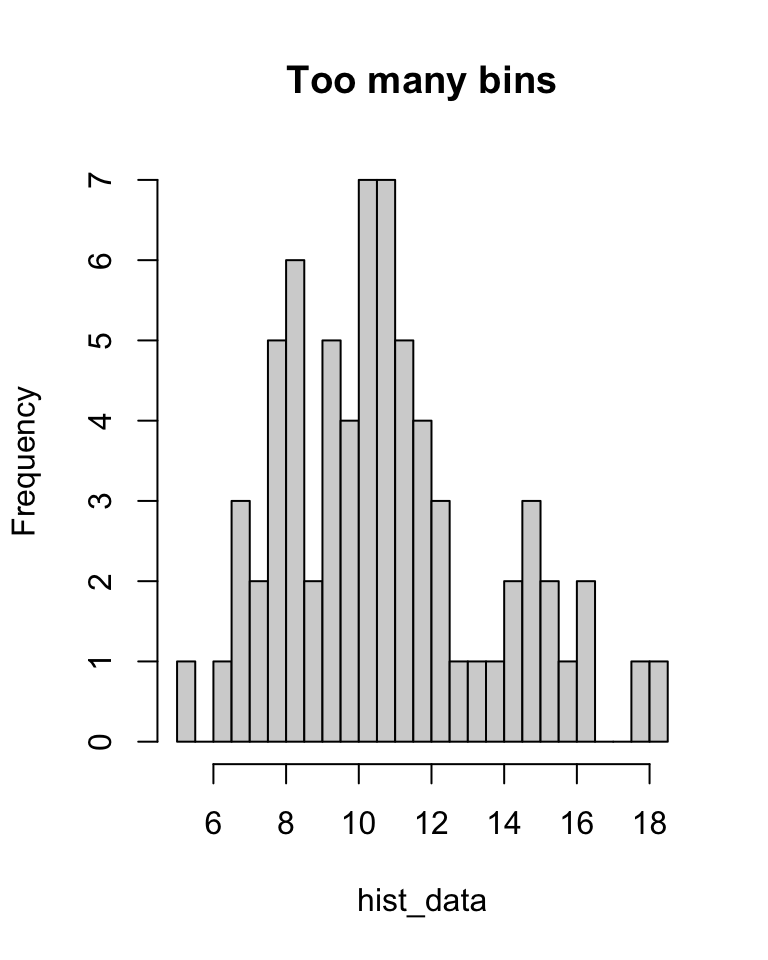
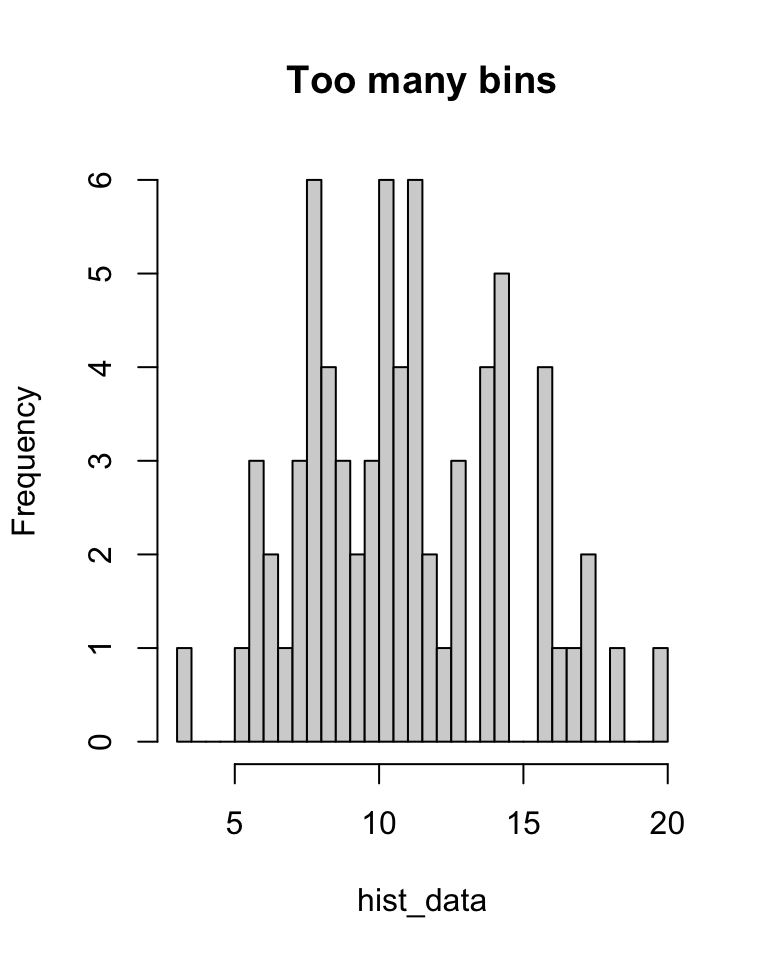
dataviz changes

diff --git a/docs/L02-dataviz.html b/docs/L02-dataviz.html
@@ -225,7 +225,8 @@ code span.wa { color: #60a0b0; font-weight: bold; font-style: italic; } /* Warni
 <p>When we have multiple datasets, drawing boxplots next to each other can help us to compare the datasets. Here are two boxplots from the July and October temperature data we used in the last lecture. What do you conclude about the data from these boxplots?</p>
 <div class="sourceCode" id="cb11"><pre class="sourceCode r"><code class="sourceCode r"><span id="cb11-1"><a href="L02-dataviz.html#cb11-1" aria-hidden="true" tabindex="-1"></a><span class="fu">boxplot</span>(jul<span class="sc">$</span>temp, oct<span class="sc">$</span>temp,</span>
 <span id="cb11-2"><a href="L02-dataviz.html#cb11-2" aria-hidden="true" tabindex="-1"></a>        <span class="at">names =</span> <span class="fu">c</span>(<span class="st">&quot;July&quot;</span>, <span class="st">&quot;October&quot;</span>),</span>
-<span id="cb11-3"><a href="L02-dataviz.html#cb11-3" aria-hidden="true" tabindex="-1"></a>        <span class="at">ylab =</span> <span class="st">&quot;Daily maximum temperature (degrees C) in Leeds&quot;</span>)</span></code></pre></div>
+<span id="cb11-3"><a href="L02-dataviz.html#cb11-3" aria-hidden="true" tabindex="-1"></a>        <span class="at">ylab =</span> <span class="st">&quot;Daily maximum temperature (degrees C) in Leeds&quot;</span></span>
+<span id="cb11-4"><a href="L02-dataviz.html#cb11-4" aria-hidden="true" tabindex="-1"></a>)</span></code></pre></div>
 <p><img src="math1710_files/figure-html/boxplot-temp-1.png" width="480" style="display: block; margin: auto;" /></p>
 <p>(And yes, I <a href="https://www.metoffice.gov.uk/binaries/content/assets/metofficegovuk/pdf/weather/learn-about/uk-past-events/interesting/2020/2020_05_july_temperature.pdf">did check the outlier</a> to make sure it was a genuine datapoint.)</p>
 </div>
@@ -361,13 +362,15 @@ code span.wa { color: #60a0b0; font-weight: bold; font-style: italic; } /* Warni
 <span id="cb12-2"><a href="L02-dataviz.html#cb12-2" aria-hidden="true" tabindex="-1"></a>bins <span class="ot">&lt;-</span> <span class="fu">c</span>(<span class="dv">0</span>, <span class="dv">5</span>, <span class="dv">10</span>, <span class="dv">15</span>, <span class="dv">30</span>, <span class="dv">45</span>, <span class="dv">60</span>, <span class="dv">120</span>)</span>
 <span id="cb12-3"><a href="L02-dataviz.html#cb12-3" aria-hidden="true" tabindex="-1"></a></span>
 <span id="cb12-4"><a href="L02-dataviz.html#cb12-4" aria-hidden="true" tabindex="-1"></a><span class="fu">hist</span>(journeys<span class="sc">$</span>midpoint, <span class="at">breaks =</span> bins,</span>
-<span id="cb12-5"><a href="L02-dataviz.html#cb12-5" aria-hidden="true" tabindex="-1"></a>     <span class="at">xlab =</span> <span class="st">&quot;Journey length (min)&quot;</span>,</span>
-<span id="cb12-6"><a href="L02-dataviz.html#cb12-6" aria-hidden="true" tabindex="-1"></a>     <span class="at">main =</span> <span class="st">&quot;&quot;</span>)</span></code></pre></div>
+<span id="cb12-5"><a href="L02-dataviz.html#cb12-5" aria-hidden="true" tabindex="-1"></a>     <span class="at">xlab =</span> <span class="st">&quot;Journey length (min)&quot;</span>, <span class="at">ylab =</span> <span class="st">&quot;frequency density&quot;</span>, <span class="at">main =</span> <span class="st">&quot;&quot;</span></span>
+<span id="cb12-6"><a href="L02-dataviz.html#cb12-6" aria-hidden="true" tabindex="-1"></a>)</span></code></pre></div>
 <p><img src="math1710_files/figure-html/journeys-1.png" width="672" /></p>
 <p>Often we draw histograms because the data was collected in bins in the first place. But even when we have exact data, we might <em>choose</em> to divide it into bins for the purposes of drawing a histogram. In this case we have to decide where to put the “breaks” between the bins. Too many breaks too close together, and the small number of observations in each bin will give “noisy” results (see left); too few breaks too far apart, and the wide bins will mean we lose detail (see right).</p>
-<div class="sourceCode" id="cb13"><pre class="sourceCode r"><code class="sourceCode r"><span id="cb13-1"><a href="L02-dataviz.html#cb13-1" aria-hidden="true" tabindex="-1"></a>hist_data <span class="ot">&lt;-</span> <span class="fu">c</span>(<span class="fu">rnorm</span>(<span class="dv">30</span>, <span class="dv">8</span>, <span class="dv">2</span>), <span class="fu">rnorm</span>(<span class="dv">40</span>, <span class="dv">12</span>, <span class="dv">3</span>))  <span class="co"># Some fake data</span></span>
-<span id="cb13-2"><a href="L02-dataviz.html#cb13-2" aria-hidden="true" tabindex="-1"></a><span class="fu">hist</span>(hist_data, <span class="at">breaks =</span> <span class="dv">40</span>, <span class="at">main =</span> <span class="st">&quot;Too many bins&quot;</span>)</span>
-<span id="cb13-3"><a href="L02-dataviz.html#cb13-3" aria-hidden="true" tabindex="-1"></a><span class="fu">hist</span>(hist_data, <span class="at">breaks =</span> <span class="dv">3</span>,  <span class="at">main =</span> <span class="st">&quot;Too few bins&quot;</span>)</span></code></pre></div>
+<div class="sourceCode" id="cb13"><pre class="sourceCode r"><code class="sourceCode r"><span id="cb13-1"><a href="L02-dataviz.html#cb13-1" aria-hidden="true" tabindex="-1"></a><span class="fu">set.seed</span>(<span class="dv">2172</span>)</span>
+<span id="cb13-2"><a href="L02-dataviz.html#cb13-2" aria-hidden="true" tabindex="-1"></a>hist_data <span class="ot">&lt;-</span> <span class="fu">c</span>(<span class="fu">rnorm</span>(<span class="dv">30</span>, <span class="dv">8</span>, <span class="dv">2</span>), <span class="fu">rnorm</span>(<span class="dv">40</span>, <span class="dv">12</span>, <span class="dv">3</span>))  <span class="co"># Some fake data</span></span>
+<span id="cb13-3"><a href="L02-dataviz.html#cb13-3" aria-hidden="true" tabindex="-1"></a></span>
+<span id="cb13-4"><a href="L02-dataviz.html#cb13-4" aria-hidden="true" tabindex="-1"></a><span class="fu">hist</span>(hist_data, <span class="at">breaks =</span> <span class="dv">40</span>, <span class="at">main =</span> <span class="st">&quot;Too many bins&quot;</span>)</span>
+<span id="cb13-5"><a href="L02-dataviz.html#cb13-5" aria-hidden="true" tabindex="-1"></a><span class="fu">hist</span>(hist_data, <span class="at">breaks =</span> <span class="dv">2</span>,  <span class="at">main =</span> <span class="st">&quot;Too few bins&quot;</span>)</span></code></pre></div>
 <p><img src="math1710_files/figure-html/hist-bins-1.png" width="48%" /><img src="math1710_files/figure-html/hist-bins-2.png" width="48%" /></p>
 <p>We can also calculate some summary statistics even when we have binned data. We mentioned the mode earlier, where the modal bin is the bin of highest frequency density.</p>
 <p>What is the median journey length? Well, we don’t know exactly, but <span class="math inline">\(0.04 + 0.08 + 0.21\)</span> (the first three bins) is less than 0.5, while <span class="math inline">\(0.04 + 0.08 + 0.21 + 0.42\)</span> (including the fourth bin) is greater than 0.5. So we know that the median student is in the fourth bin, the “15–30 minute” bin, and we can say that the median journey length is between 15 and 30 minutes.</p>

diff --git a/docs/math1710.tex b/docs/math1710.tex
@@ -711,7 +711,8 @@ When we have multiple datasets, drawing boxplots next to each other can help us 
 \begin{Highlighting}[]
 \FunctionTok{boxplot}\NormalTok{(jul}\SpecialCharTok{$}\NormalTok{temp, oct}\SpecialCharTok{$}\NormalTok{temp,}
         \AttributeTok{names =} \FunctionTok{c}\NormalTok{(}\StringTok{"July"}\NormalTok{, }\StringTok{"October"}\NormalTok{),}
-        \AttributeTok{ylab =} \StringTok{"Daily maximum temperature (degrees C) in Leeds"}\NormalTok{)}
+        \AttributeTok{ylab =} \StringTok{"Daily maximum temperature (degrees C) in Leeds"}
+\NormalTok{)}
 \end{Highlighting}
 \end{Shaded}
 
@@ -776,8 +777,8 @@ Here is a histogram for our journey-time data:
 \NormalTok{bins }\OtherTok{\textless{}{-}} \FunctionTok{c}\NormalTok{(}\DecValTok{0}\NormalTok{, }\DecValTok{5}\NormalTok{, }\DecValTok{10}\NormalTok{, }\DecValTok{15}\NormalTok{, }\DecValTok{30}\NormalTok{, }\DecValTok{45}\NormalTok{, }\DecValTok{60}\NormalTok{, }\DecValTok{120}\NormalTok{)}
 
 \FunctionTok{hist}\NormalTok{(journeys}\SpecialCharTok{$}\NormalTok{midpoint, }\AttributeTok{breaks =}\NormalTok{ bins,}
-     \AttributeTok{xlab =} \StringTok{"Journey length (min)"}\NormalTok{,}
-     \AttributeTok{main =} \StringTok{""}\NormalTok{)}
+     \AttributeTok{xlab =} \StringTok{"Journey length (min)"}\NormalTok{, }\AttributeTok{ylab =} \StringTok{"frequency density"}\NormalTok{, }\AttributeTok{main =} \StringTok{""}
+\NormalTok{)}
 \end{Highlighting}
 \end{Shaded}
 
@@ -787,9 +788,11 @@ Often we draw histograms because the data was collected in bins in the first pla
 
 \begin{Shaded}
 \begin{Highlighting}[]
+\FunctionTok{set.seed}\NormalTok{(}\DecValTok{2172}\NormalTok{)}
 \NormalTok{hist\_data }\OtherTok{\textless{}{-}} \FunctionTok{c}\NormalTok{(}\FunctionTok{rnorm}\NormalTok{(}\DecValTok{30}\NormalTok{, }\DecValTok{8}\NormalTok{, }\DecValTok{2}\NormalTok{), }\FunctionTok{rnorm}\NormalTok{(}\DecValTok{40}\NormalTok{, }\DecValTok{12}\NormalTok{, }\DecValTok{3}\NormalTok{))  }\CommentTok{\# Some fake data}
+
 \FunctionTok{hist}\NormalTok{(hist\_data, }\AttributeTok{breaks =} \DecValTok{40}\NormalTok{, }\AttributeTok{main =} \StringTok{"Too many bins"}\NormalTok{)}
-\FunctionTok{hist}\NormalTok{(hist\_data, }\AttributeTok{breaks =} \DecValTok{3}\NormalTok{,  }\AttributeTok{main =} \StringTok{"Too few bins"}\NormalTok{)}
+\FunctionTok{hist}\NormalTok{(hist\_data, }\AttributeTok{breaks =} \DecValTok{2}\NormalTok{,  }\AttributeTok{main =} \StringTok{"Too few bins"}\NormalTok{)}
 \end{Highlighting}
 \end{Shaded}
 
